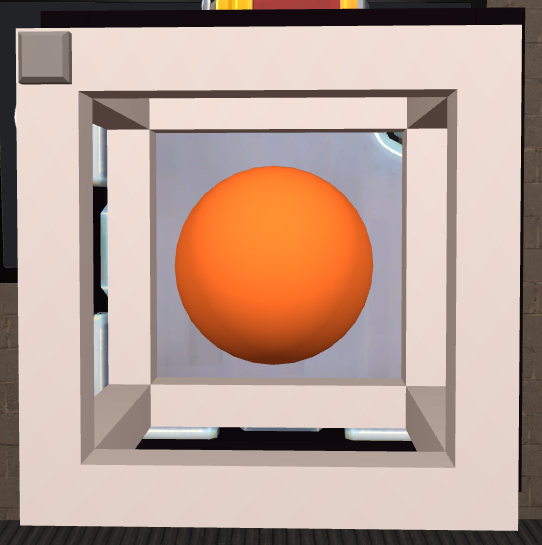
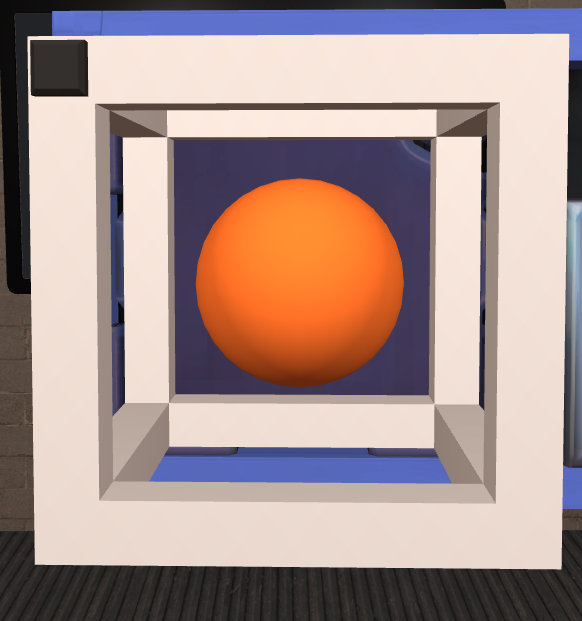
Version 1.2

diff --git a/Assets/bafflingBox.cs b/Assets/bafflingBox.cs
@@ -22,7 +22,7 @@ public class bafflingBox : MonoBehaviour
     public Renderer[] cubes;
     public Renderer[] spheres;
     public Renderer[] cylinders;
-    public GameObject hidable;
+    public GameObject box;
 
     private int shapeChosen;
     private int[] shapeOrder = new int[3];
@@ -108,6 +108,8 @@ public class bafflingBox : MonoBehaviour
             str += "GOR"[colorOrder[axisOrder[i]]];
         solution = Array.IndexOf(table2, str);
         Debug.LogFormat("[Baffling Box #{0}] This gives us the colors {1}, and the solution digit of {2}.", moduleId, str, solution);
+        StartCoroutine(ColorFade(box.GetComponent<Renderer>()));
+        StartCoroutine(ColorFade(button.GetComponent<Renderer>()));
     }
 
     private void PressButton()
@@ -116,7 +118,7 @@ public class bafflingBox : MonoBehaviour
         audio.PlayGameSoundAtTransform(KMSoundOverride.SoundEffect.ButtonPress, button.transform);
         if (moduleSolved)
         {
-            hidable.SetActive(false);
+            StartCoroutine(HideAnimation());
             return;
         }
         var submmittedTime = ((int)bomb.GetTime()) % 60 / 10;
@@ -133,6 +135,37 @@ public class bafflingBox : MonoBehaviour
             moduleSolved = true;
             audio.PlayGameSoundAtTransform(KMSoundOverride.SoundEffect.CorrectChime, transform);
         }
+    }
+
+    private IEnumerator ColorFade(Renderer objectToColor)
+    {
+    restartCycle:
+        var elapsed = 0f;
+        var duration = 10f;
+        var startColor = objectToColor.material.color;
+        var shade = 1f - startColor.r;
+        var endColor = new Color(shade, shade, shade);
+        while (elapsed < duration)
+        {
+            objectToColor.material.color = Color.Lerp(startColor, endColor, elapsed / duration);
+            yield return null;
+            elapsed += Time.deltaTime;
+        }
+        objectToColor.material.color = endColor;
+        goto restartCycle;
+    }
+
+    private IEnumerator HideAnimation()
+    {
+        var givenDirection = rnd.onUnitSphere;
+        audio.PlaySoundAtTransform("out of sight out of mind fuck yourself", transform);
+        for (float x = .075f; x >= 0; x -= Time.deltaTime / 10f)
+        {
+            box.transform.localScale = new Vector3(x, x, x);
+            box.transform.Rotate(360f * givenDirection * Time.deltaTime);
+            yield return null;
+        }
+        box.SetActive(false);
     }
 
     // Twitch Plays
